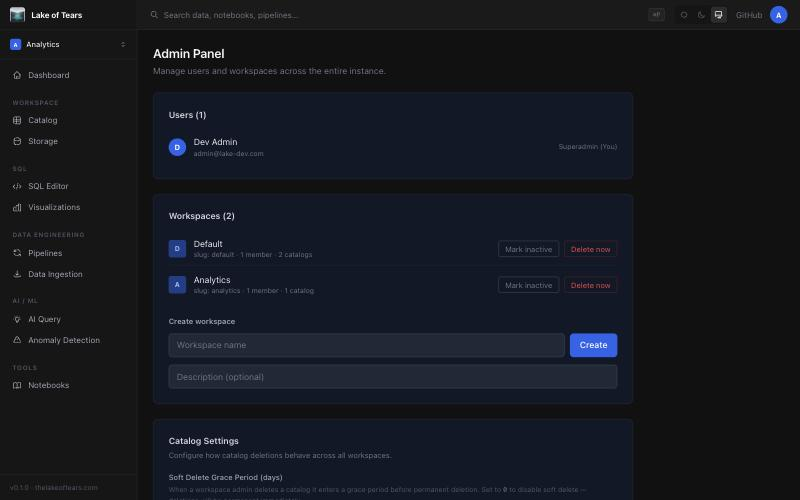
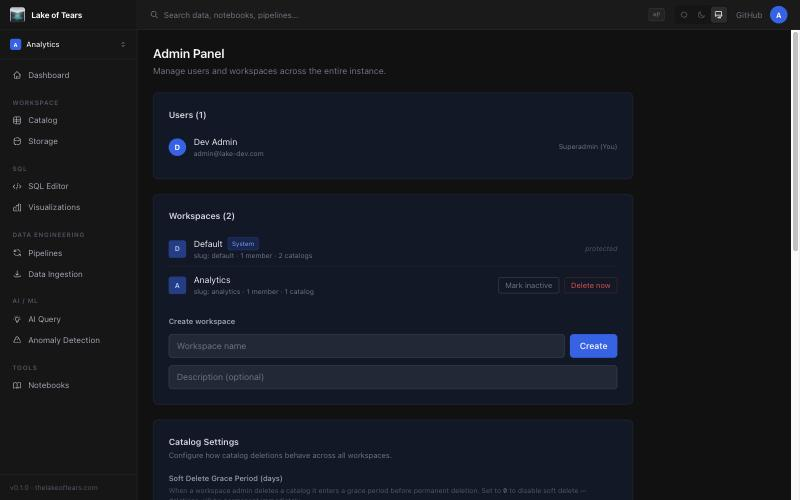
docs(wiki): retake Admin workspaces screenshot after the #129 fix (#79) (#153)
Default now shows the System badge. Replace the known-issue note with the
fixed behavior and log the change.

diff --git a/docs/wiki/Workspaces-and-Catalog-Management.md b/docs/wiki/Workspaces-and-Catalog-Management.md
@@ -10,7 +10,7 @@ A **workspace** is a tenant boundary. Users belong to one or more workspaces wit
 
 The first user to register becomes the superadmin and a **Default** workspace is created automatically (`is_system = true`). The Default workspace is meant to be undeletable.
 
-> **Known issue (#129, fix in #130):** before the fix, the Default workspace was created without `is_system = true`, so the admin API's system-workspace guard did not apply and the Admin panel offered **Mark inactive** and **Delete now** on it. Once #130 is merged, Default is flagged on creation (and existing installs are backfilled by migration `0007`), the API returns `409`, and the Admin panel shows a **System** badge instead. Update the Admin screenshot below after that release.
+> Installs created before fix #129 (PR #130) had the Default workspace unflagged; migration `0007` backfills them. Default is now created with `is_system = true`, the admin API returns `409` if you try to delete it, and the Admin panel shows a **System** badge with no delete actions.
 
 ![Workspace switcher showing Default and Analytics](images/workspace-switcher.jpg)
 
@@ -154,7 +154,7 @@ The Airflow DAG `refresh_catalog_schemas` runs **nightly at 06:00**. For every c
 | Mark inactive, restore, or delete workspaces | Settings > Admin > Workspaces | Superadmin |
 | Set grace periods (`catalog_soft_delete_days`, `workspace_inactive_grace_period_days`) and session limits | Settings > Admin | Superadmin |
 
-![Superadmin workspace list with Mark inactive and Delete now actions](images/admin-workspaces.jpg)
+![Superadmin workspace list: Default is protected with a System badge; other workspaces offer Mark inactive and Delete now](images/admin-workspaces.jpg)
 
 ---
 

diff --git a/CHANGES.md b/CHANGES.md
@@ -13,6 +13,7 @@ Every change made to this repo gets one row, newest first.
 
 | Date | Action | Ticket | Files | Summary |
 |---|---|---|---|---|
+| 20261016 | IMPROVEMENT | #79 | `docs/wiki/images/admin-workspaces.jpg`, `docs/wiki/Workspaces-and-Catalog-Management.md` | Retook the Admin workspaces screenshot after #129 (Default shows System badge); replaced the known-issue note with the fixed behavior |
 | 20261016 | BUG FIX | #151 | `pipeline/dags/purge_deleted_catalogs_dag.py`, `tests/test_purge_deleted_catalogs_dag.py` | Scheduled catalog purge DAG now skips S3 prefixes shared with surviving catalogs, preventing silent data deletion; added DAG unit tests (PR #152) |
 | 20261016 | BUG FIX | #132 | `backend/main.py` | Admin hard delete (`DELETE /api/admin/workspaces/{id}`, `mode=hard`) now deletes MinIO objects for every owned catalog before the DB rows (502 on storage failure); skips prefixes shared with other workspaces |
 | 20261016 | BUG FIX | #132 | `pipeline/dags/purge_inactive_workspaces_dag.py` | Prefix derivation never matched real `s3://bucket/.../*.parquet` patterns, so the DAG deleted nothing; now correct, with shared-prefix protection |
